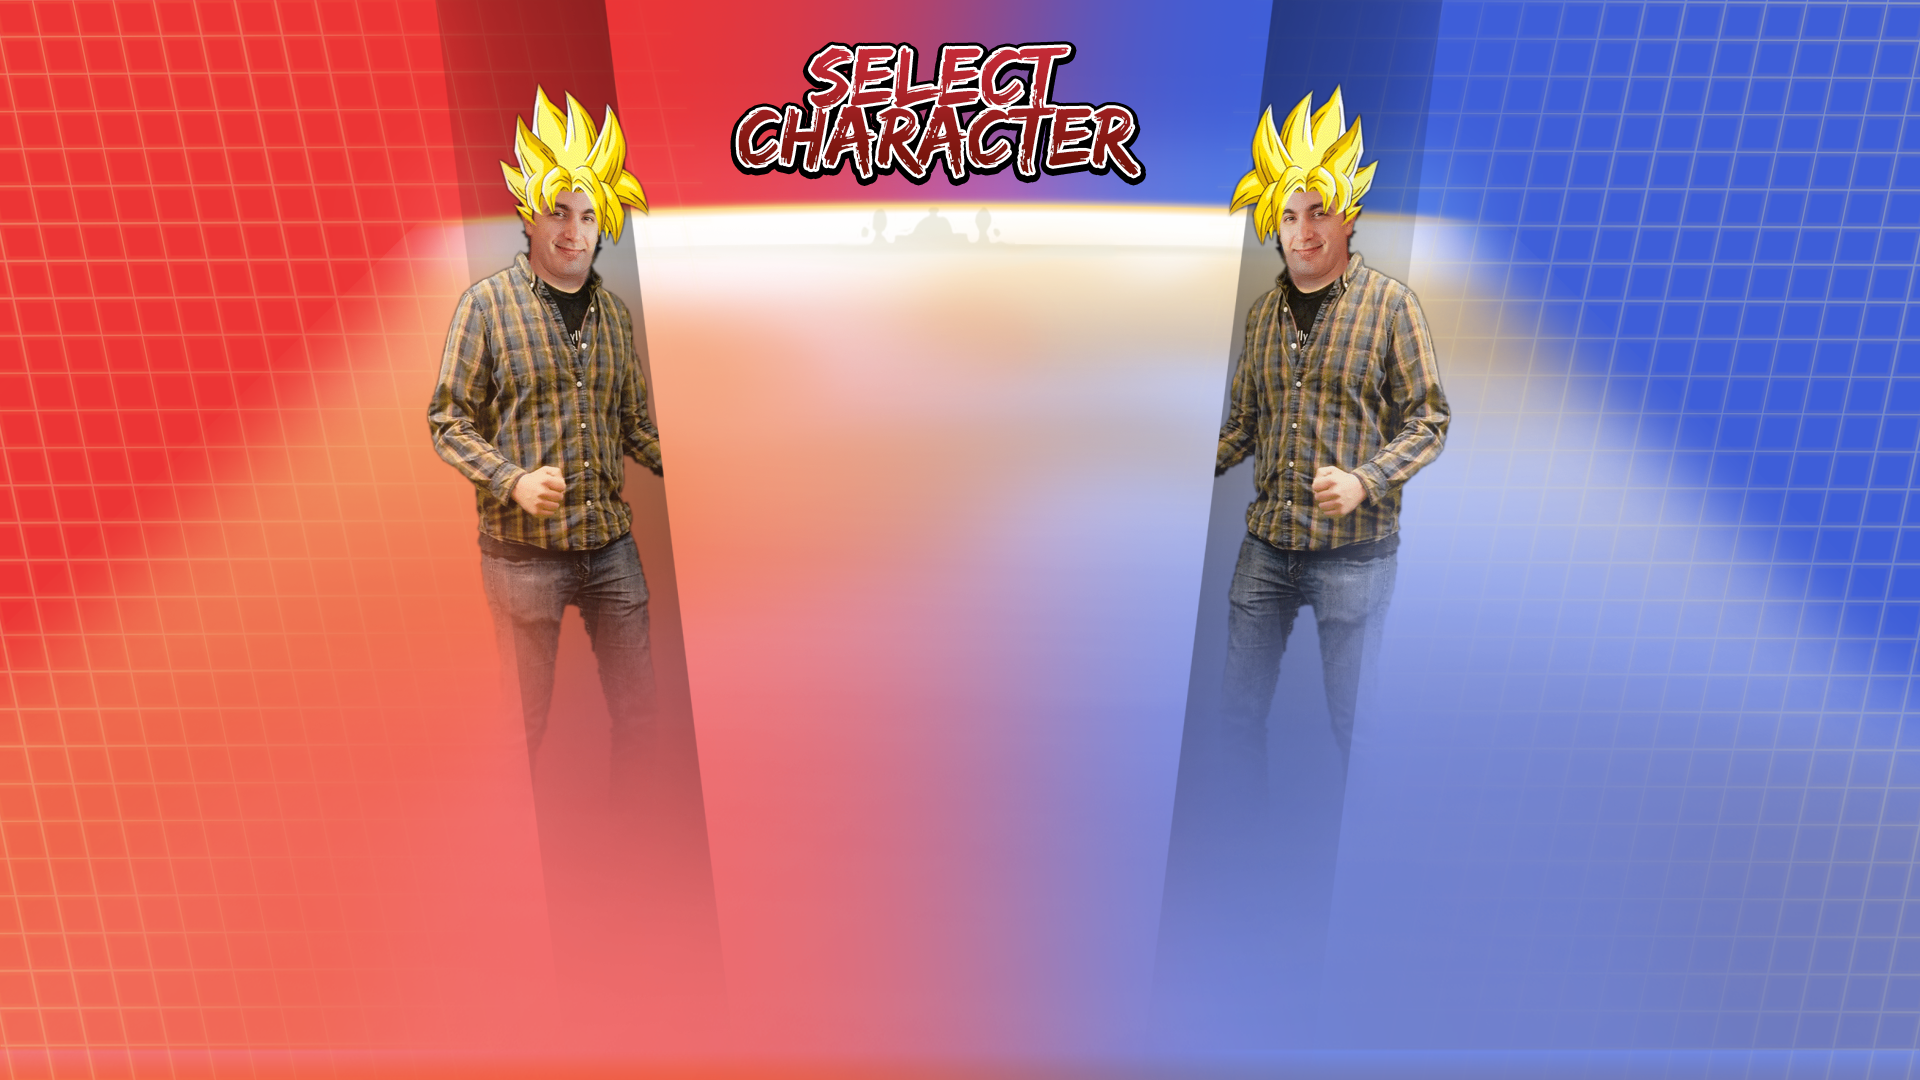
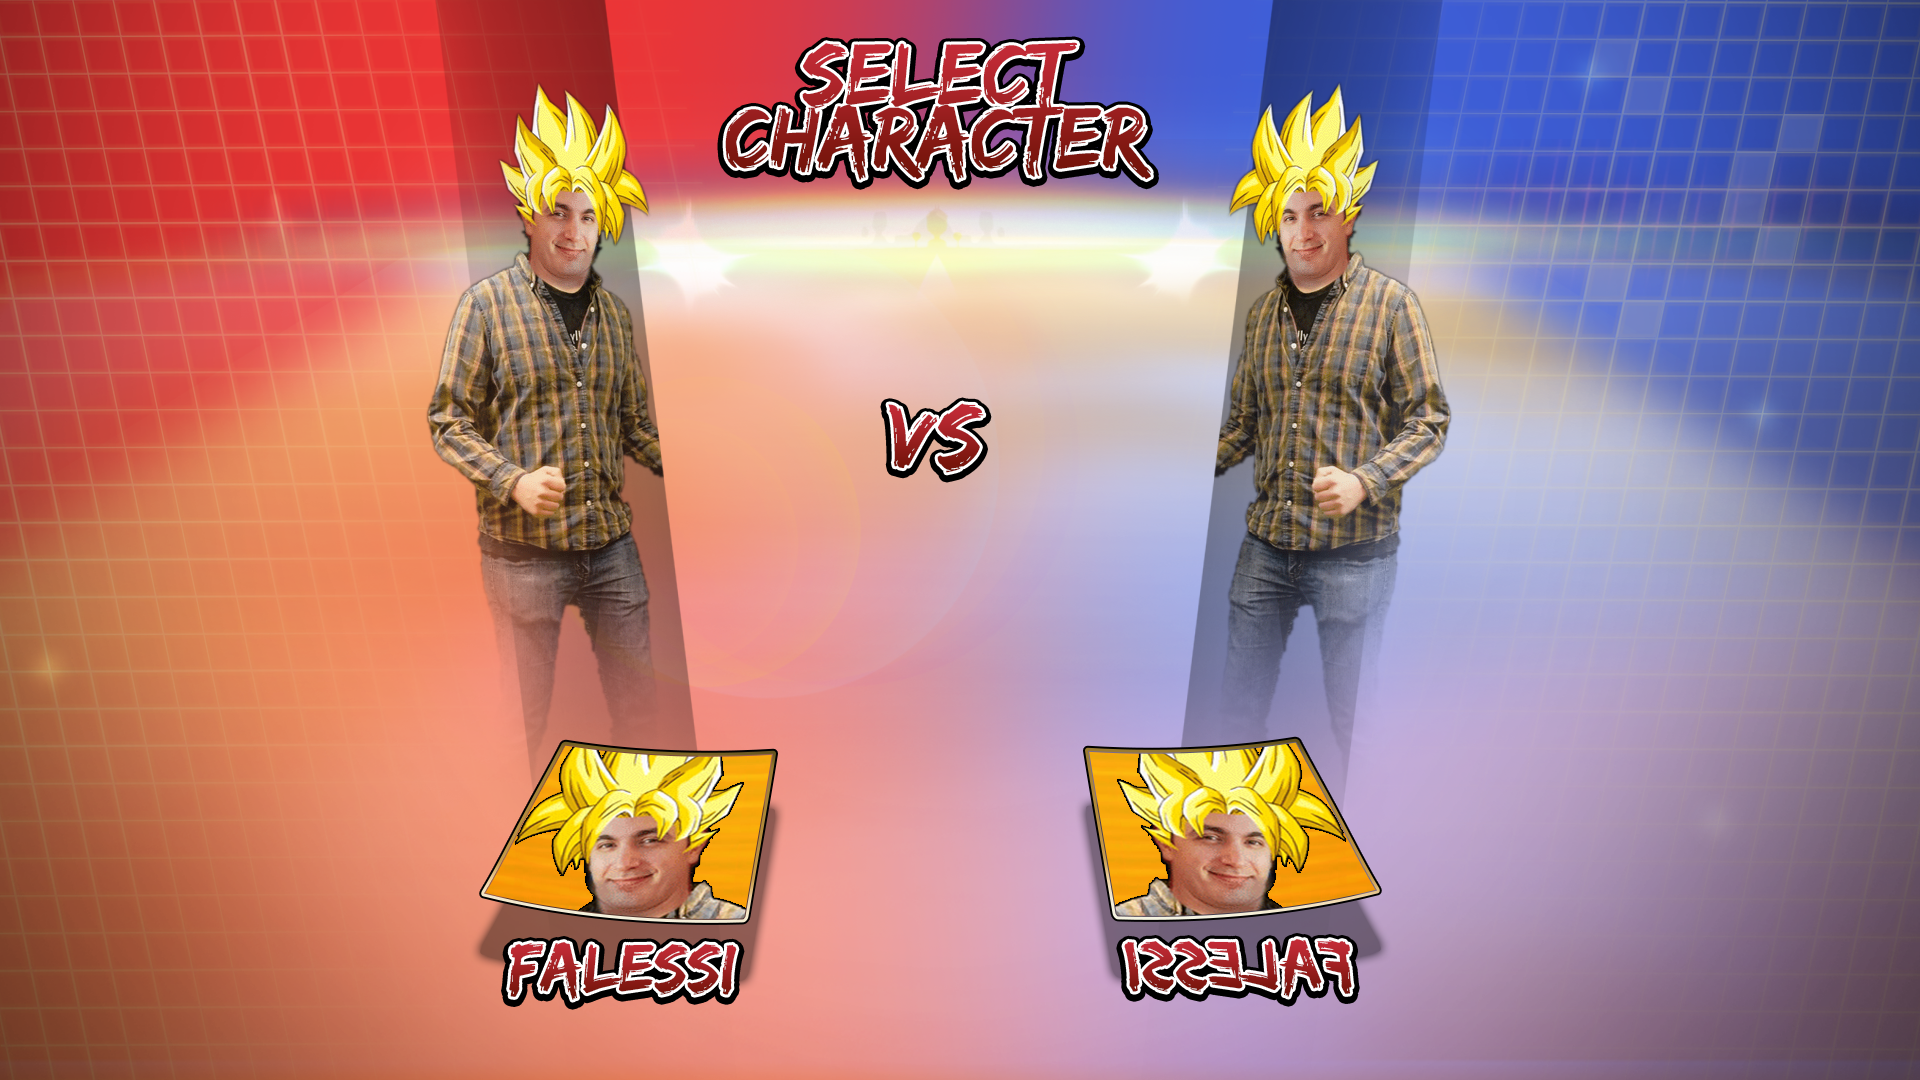
Added working options menu. Updated character select background.

diff --git a/src/com/fighterz/main/Game.java b/src/com/fighterz/main/Game.java
@@ -7,6 +7,7 @@ import javafx.animation.Timeline;
 import javafx.application.Application;
 import javafx.event.EventHandler;
 import javafx.scene.Cursor;
+import javafx.scene.Node;
 import javafx.scene.Parent;
 import javafx.scene.Scene;
 import javafx.scene.control.Label;
@@ -22,13 +23,14 @@ import javafx.stage.Stage;
 import javafx.util.Duration;
 
 public class Game extends Application {
-
     // 16 : 9 Ratio based off height
-    int HEIGHT = 720;
-    int WIDTH = HEIGHT * 16 / 9;
+    private final static int INIT_HEIGHT = 1080;
+    private final static int INIT_WIDTH = INIT_HEIGHT * 16 / 9;
     
     // Used to determine values based off ratio of current res (HEIGHT) to standard res (1080p)
-    double H_RATIO = HEIGHT / 1080.0;
+    private static double hRatio = INIT_HEIGHT / 1080.0;
+    
+    private static int height = INIT_HEIGHT, width = INIT_WIDTH;
 
     Parent mainMenuLayout, characterSelectLayout;
 
@@ -49,44 +51,50 @@ public class Game extends Application {
 
         stage.setResizable(false);
         stage.setTitle("Super CSC FighterZ");
+        stage.setHeight(INIT_HEIGHT);
+        stage.setWidth(INIT_WIDTH);
         stage.setScene(root);
         stage.show();
+    }
+    
+    private static void setWindowSize(Stage stage, int newHeight) {
+    	height = newHeight;
+    	width = newHeight * 16 / 9;
+    	hRatio = newHeight / 1080.0;
+    	
+        stage.setHeight(height);
+        stage.setWidth(width);
+    }
+    
+    private static int getWidth() {
+    	return width;
+    }
+    
+    private static int getHeight() {
+    	return height;
     }
 
     private StackPane createMainMenu() {
         StackPane mainMenuLayout = new StackPane();
 
-        Image background = new Image("MainMenuBG.png");
-        ImageView imgView = new ImageView(background);
-        imgView.setFitHeight(HEIGHT);
-        imgView.setFitWidth(WIDTH);
+        SimpleImage background = new SimpleImage("MainMenuBG.png", true);
+        background.setFitHeight(Game.getHeight());
+        background.setFitWidth(Game.getWidth());
 
-        Image logo = new Image("MainMenuLogo.png");
-        ImageView logoView = new ImageView(logo);
-        logoView.setFitHeight(HEIGHT);
-        logoView.setFitWidth(WIDTH);
-
-        Timeline timeline = new Timeline();
-        timeline.getKeyFrames().addAll(
-            new KeyFrame(Duration.ZERO, new KeyValue(logoView.rotateProperty(), -2)),
-            new KeyFrame(new Duration(800), new KeyValue(logoView.rotateProperty(), 2)),
-            new KeyFrame(new Duration(1600), new KeyValue(logoView.rotateProperty(), -2))
-        );
-        timeline.setCycleCount(Animation.INDEFINITE);
-        timeline.play();
+        ImageView logoView = setupLogo();
 
         MainMenuButton play = new MainMenuButton("Play", createCharacterSelect());
         MainMenuButton leaderboards = new MainMenuButton("Leaderboards", createCharacterSelect());
-        MainMenuButton options = new MainMenuButton("Options", createCharacterSelect());
+        MainMenuButton options = new MainMenuButton("Options", createOptionsMenu());
         MainMenuButton exit = new MainMenuButton("Exit");
      
-        int maxX = (int) (H_RATIO * 420);
+        int maxX = (int) (hRatio * 420);
         play.setTranslateX(-maxX);
-        leaderboards.setTranslateX(-maxX / 2 + H_RATIO * 90); // Leaderboard btn is offset b/c it's so long
+        leaderboards.setTranslateX(-maxX / 2 + hRatio * 90); // Leaderboard btn is offset b/c it's so long
         options.setTranslateX(maxX / 2);
         exit.setTranslateX(maxX);
 
-        mainMenuLayout.getChildren().add(imgView);
+        mainMenuLayout.getChildren().add(background);
         mainMenuLayout.getChildren().add(logoView);
         mainMenuLayout.getChildren().add(play);
         mainMenuLayout.getChildren().add(leaderboards);
@@ -95,13 +103,30 @@ public class Game extends Application {
 
         return mainMenuLayout;
     }
+    
+    private ImageView setupLogo() {
+    	SimpleImage logo = new SimpleImage("MainMenuLogo.png");
+    	logo.setFitHeight(Game.getHeight());
+    	logo.setFitWidth(Game.getWidth());
+
+        Timeline timeline = new Timeline();
+        timeline.getKeyFrames().addAll(
+            new KeyFrame(Duration.ZERO, new KeyValue(logo.rotateProperty(), -2)),
+            new KeyFrame(new Duration(800), new KeyValue(logo.rotateProperty(), 2)),
+            new KeyFrame(new Duration(1600), new KeyValue(logo.rotateProperty(), -2))
+        );
+        timeline.setCycleCount(Animation.INDEFINITE);
+        timeline.play();
+        
+        return logo;
+    }
 
     private StackPane createCharacterSelect() {
         StackPane characterSelectLayout = new StackPane();
         Image background = new Image("CharacterSelect.png");
         ImageView imgView = new ImageView(background);
-        imgView.setFitHeight(HEIGHT);
-        imgView.setFitWidth(WIDTH);
+        imgView.setFitHeight(Game.getHeight());
+        imgView.setFitWidth(Game.getWidth());
 
         // Eventually null will be replaced with a reference to the previous scene
         // For now we assume mainMenu
@@ -110,6 +135,135 @@ public class Game extends Application {
         characterSelectLayout.getChildren().add(imgView);
         characterSelectLayout.getChildren().add(backBtn);
         return characterSelectLayout;
+    }
+    
+    private StackPane createOptionsMenu() {
+        StackPane optionsMenu = new StackPane();
+        SimpleImage imgView = new SimpleImage("OptionsMenu.png", true);
+        
+        ImageView logoView = setupLogo();
+        
+        OptionsButton minRes = new OptionsButton("640 x 480");
+        OptionsButton medRes = new OptionsButton("1280 x 720");
+        OptionsButton maxRes = new OptionsButton("1920 x 1080");
+        
+        minRes.setTranslateX(-270 * hRatio);
+        minRes.setTranslateY(-170 * hRatio);
+        
+        medRes.setTranslateX(-259 * hRatio);
+        medRes.setTranslateY(-70 * hRatio);
+        
+        maxRes.setTranslateX(-241 * hRatio);
+        maxRes.setTranslateY(30 * hRatio);
+        
+        SimpleImage pointer = new SimpleImage("OptionPointer.png", false);
+        
+        
+        SimpleImage container = new SimpleImage("OptionsContainer.png", true);
+        SimpleImage heading = new SimpleImage("OptionsHeading.png", true);
+
+        // Eventually null will be replaced with a reference to the previous scene
+        // For now we assume mainMenu
+        BackButton backBtn = new BackButton(null);
+
+        optionsMenu.getChildren().add(imgView);
+        optionsMenu.getChildren().add(backBtn);
+        optionsMenu.getChildren().add(logoView);
+        optionsMenu.getChildren().add(container);
+        optionsMenu.getChildren().add(heading);
+        optionsMenu.getChildren().add(minRes);
+        optionsMenu.getChildren().add(medRes);
+        optionsMenu.getChildren().add(maxRes);
+        optionsMenu.getChildren().add(pointer);
+        
+        
+        pointer.setTranslateX(-450 * hRatio);
+        
+        if(Game.getHeight() == 1080) {
+            pointer.setTranslateY(30 * hRatio);
+        } else if(Game.getHeight() == 720) {
+        	pointer.setTranslateY(-70 * hRatio);
+        } else {
+        	pointer.setTranslateY(-170 * hRatio);
+        }
+        
+        minRes.setupHandlers(optionsMenu, pointer);
+        medRes.setupHandlers(optionsMenu, pointer);
+        maxRes.setupHandlers(optionsMenu, pointer);
+        
+        return optionsMenu;
+    }
+    
+    // Removes a lot of boilerplate for adding images
+    public class SimpleImage extends ImageView {
+    	
+    	public SimpleImage(String path) {
+    		super(new Image(path));
+    	}
+    	
+    	public SimpleImage(String path, boolean fitScreen) {
+    		super(new Image(path));
+    		if(fitScreen) {
+                this.setFitHeight(Game.getHeight());
+                this.setFitWidth(Game.getWidth());
+    		} else {
+    			double width = this.boundsInLocalProperty().getValue().getWidth() * hRatio;
+    			double height = this.boundsInLocalProperty().getValue().getHeight() * hRatio;
+    			this.setFitWidth(width);
+    			this.setFitHeight(height);
+    		}
+    	}
+    }
+    
+    public class OptionsButton extends Label {
+    	
+    	private int heightVal;
+    	
+        public OptionsButton(String label) {
+            super(label);
+            this.heightVal = Integer.parseInt(label.split(" ")[2]);
+            this.setupAppearence();
+        }
+        
+        private void setupAppearence() {
+            this.setFont(Font.font("Myriad Pro", FontWeight.NORMAL, hRatio * 54));
+            this.setTextFill(Color.WHITE);
+            this.setCursor(Cursor.HAND);
+        }
+        
+        public void setupHandlers(StackPane optionsMenu, SimpleImage pointer){
+        	OptionsButton that = this;
+        	SimpleImage highlight = new SimpleImage("OptionHighlighter.png");
+            highlight.setFitHeight(highlight.boundsInLocalProperty().getValue().getHeight() * hRatio);
+            highlight.setFitWidth(highlight.boundsInLocalProperty().getValue().getWidth() * hRatio);
+            
+            this.addEventHandler(MouseEvent.MOUSE_ENTERED, new EventHandler<MouseEvent>() {
+                @Override
+                public void handle(MouseEvent e) {
+                    optionsMenu.getChildren().add(highlight);
+                    highlight.setTranslateX(that.getTranslateX() + 170 * hRatio);
+                    highlight.setTranslateY(that.getTranslateY());
+                    
+                    that.toFront();
+                }
+            });
+
+            this.addEventHandler(MouseEvent.MOUSE_EXITED, new EventHandler<MouseEvent>() {
+                @Override
+                public void handle(MouseEvent e) {
+                    optionsMenu.getChildren().remove(highlight);
+                }
+            });
+            
+            this.addEventHandler(MouseEvent.MOUSE_CLICKED, new EventHandler<MouseEvent>() {
+                @Override
+                public void handle(MouseEvent e) {
+                	Stage stage = (Stage) ((Node) e.getSource()).getScene().getWindow();
+                	Game.setWindowSize(stage, that.heightVal);
+                    getScene().setRoot(createOptionsMenu());
+                }
+            });
+        }
     }
 
     public class MainMenuButton extends Label {
@@ -145,12 +299,12 @@ public class Game extends Application {
 
         private void setupAppearence() {
             // TODO better font
-            this.setFont(Font.font("Arial", FontWeight.NORMAL, H_RATIO * 54));
+            this.setFont(Font.font("Arial", FontWeight.NORMAL, hRatio * 54));
             this.setTextFill(Color.WHITE);
             this.setCursor(Cursor.HAND);
 
             // Relative height to window size, 1/4 of the way up from the bottom
-            this.setTranslateY(HEIGHT / 2 - HEIGHT / 4);
+            this.setTranslateY(Game.getHeight() / 2 - Game.getHeight() / 4);
         }
 
         private void setupHandlers() {
@@ -179,7 +333,7 @@ public class Game extends Application {
             super(new Image("BackIcon.png"));  
             
             this.setCursor(Cursor.HAND);
-            double side = H_RATIO * new Image("BackIcon.png").getHeight();
+            double side = hRatio * new Image("BackIcon.png").getHeight();
             this.setFitHeight(side);
             this.setFitWidth(side);
 
@@ -214,8 +368,8 @@ public class Game extends Application {
             });
 
             // Place back button in left corner relative to window size
-            this.setTranslateY(HEIGHT / 2 - H_RATIO * 90);
-            this.setTranslateX(-WIDTH / 2 + H_RATIO * 90);
+            this.setTranslateY(Game.getHeight() / 2 - hRatio * 110);
+            this.setTranslateX(-Game.getWidth() / 2 + hRatio * 110);
         }
     }
 }
